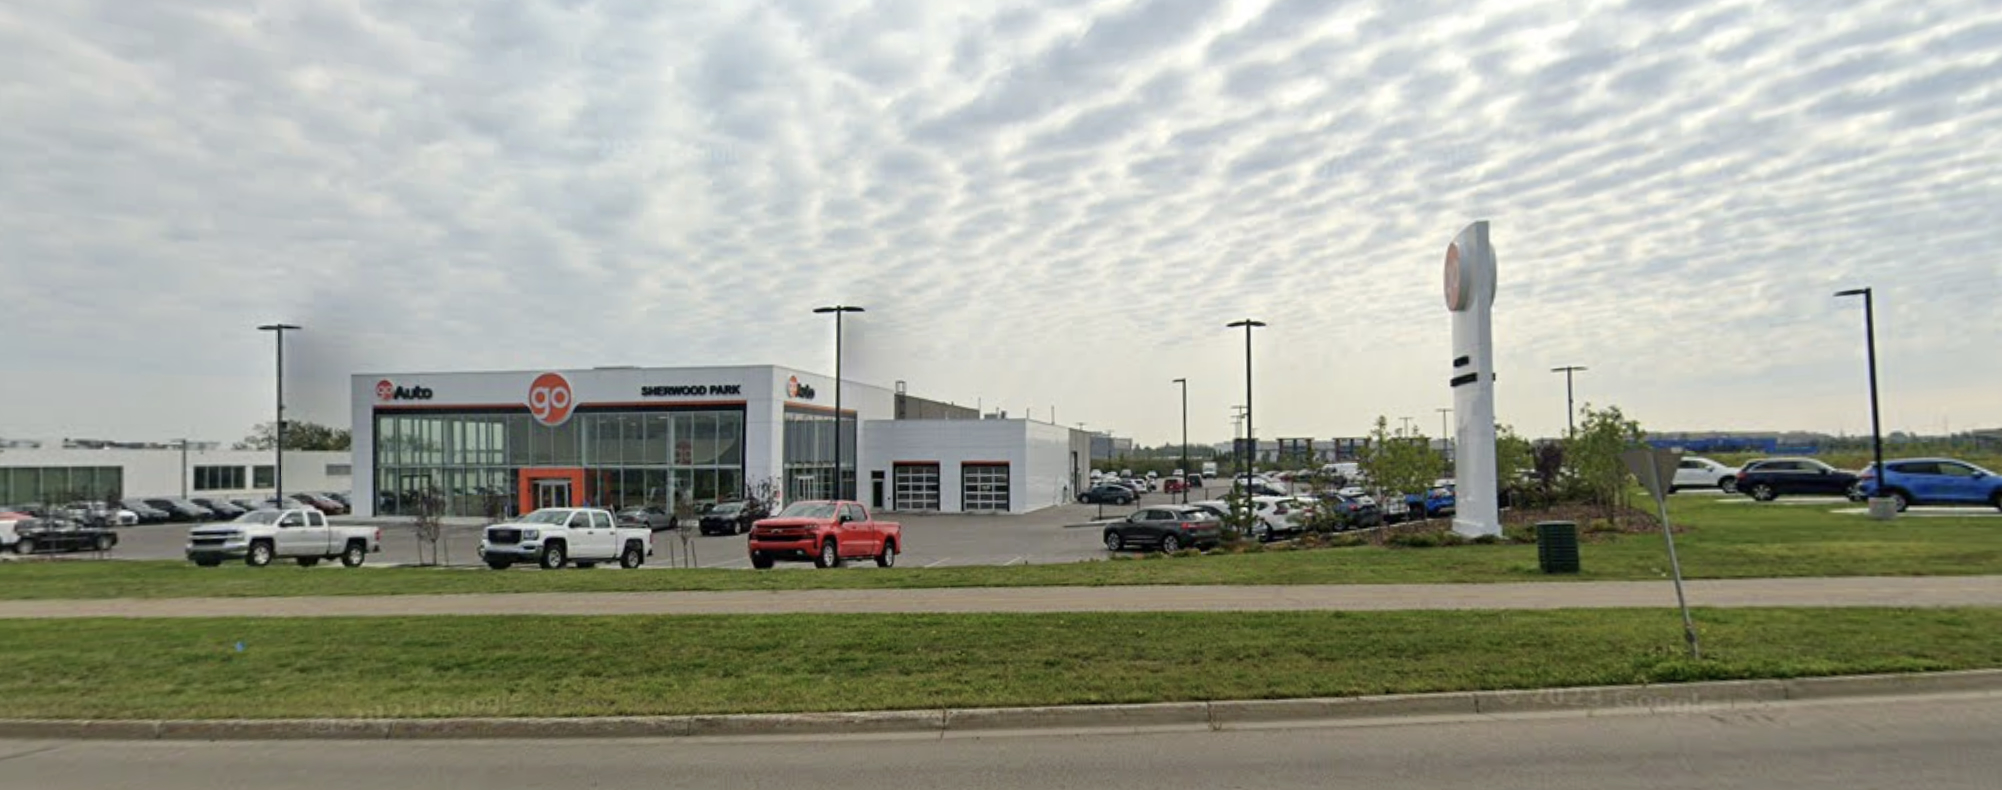
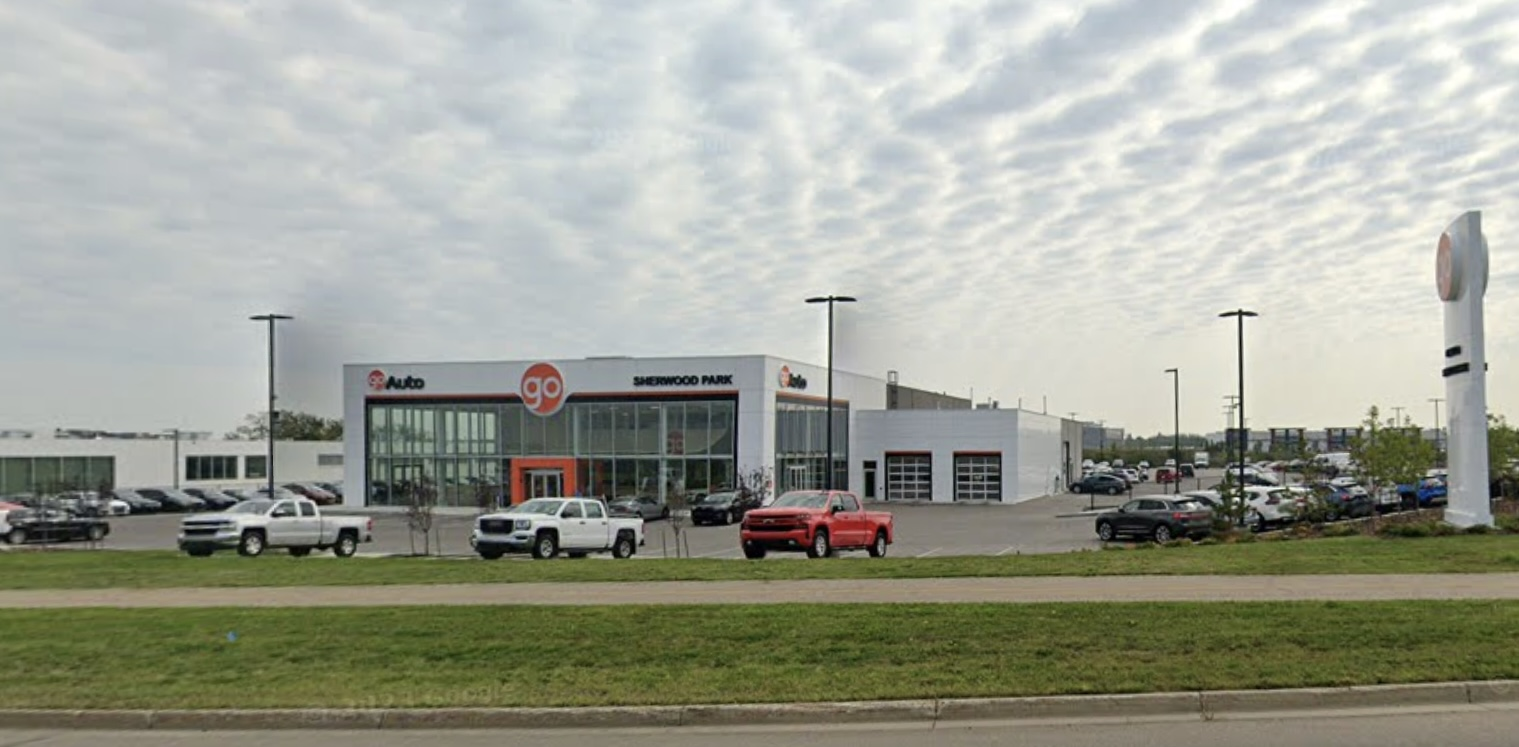
Mobile view - rescale font sizes

diff --git a/styles.css b/styles.css
@@ -206,9 +206,15 @@ header {
 }
 
 .overlay h2 {
-    font-size: 2.5rem; /* Adjust font size as needed */
+    font-size: 2.5rem; /* Default size for desktop */
     margin-top: 60px;
     font-family: 'Merriweather', serif; /* Set font-family */
+}
+
+@media (max-width: 1000px) {
+    .overlay h2 {
+        font-size: 180%; /* Reduce font size to 80% of the default for smaller screens */
+    }
 }
 
 .overlay p {
@@ -616,9 +622,6 @@ button[type="submit"]:hover {
     font-size: 1.2em; /* Match font size with residential services */
 }
 
-
-
-
 .snow-removal-services h3 {
     margin-bottom: 10px; /* Add space below services header */
 }
@@ -635,7 +638,6 @@ button[type="submit"]:hover {
     margin-bottom: 10px;
 }
 
-
 .about-header {
     font-family: 'Merriweather', serif;
     font-size: 2em;
@@ -644,6 +646,7 @@ button[type="submit"]:hover {
 }
 
 .about-description p {
+    margin-bottom: 10px; /* Reduce space below the paragraph */
     line-height: 2; /* Double spacing */
     text-align: center;
 }
@@ -675,24 +678,23 @@ button[type="submit"]:hover {
 }
 
 #outro {
-    height: 300px; /* Adjust the height of the outro background */
+    height: 250px; /* Reduce the height of the outro background */
+    margin-top: 50px; /* Reduce space above the outro section */
     background-image: url('lawn2.jpg'); /* Background image */
     background-size: cover; /* Ensure the background covers the entire container */
-    background-position: center bottom; /* Center the background image vertically and align it to the top */
+    background-position: center bottom; /* Center the background image vertically and align it to the bottom */
     position: relative; /* Ensure proper positioning */
-    margin-top: 150px; /* Adjust the top margin to add space */
-
 }
 
 #outro-content {
-    position: absolute;
-    top: 10%;
-    left: 50%;
-    transform: translate(-50%, -50%);
     text-align: center;
     color: white; /* Text color */
+    padding-top: 10px; /* Add padding to move the content up */
 }
 
+.outro-text {
+    margin-top: -100px; /* Use negative margin to move the text up */
+}
 
 .logo2-container {
     text-align: center;
@@ -702,14 +704,13 @@ button[type="submit"]:hover {
 .logo2 {
     width: 100%; /* Ensure it scales dynamically */
     height: auto; /* Maintain aspect ratio */
-    margin-top: 100px; /* Move the logo2 down to fill the blank space */
+    margin-top: 20px; /* Reduce space above the logo2 */
 }
 
 .logo2 img {
     width: 80%; /* Ensure the image respects the container's width */
     height: auto; /* Maintain aspect ratio */
 }
-
 
 .hamburger-menu {
     display: none;
@@ -765,5 +766,35 @@ button[type="submit"]:hover {
 
     .phone-info {
         margin-right: 40px; /* Adjust the margin-right for mobile view */
+    }
+}
+
+@media (max-width: 1000px) {
+    body {
+        font-size: 80%; /* Reduce the base font size for all text */
+    }
+
+    header, footer, #intro, #outro, .section {
+        font-size: inherit; /* Ensure all sections inherit the reduced font size */
+    }
+
+    h1 {
+        font-size: 1.2rem; /* Adjust heading size */
+    }
+
+    h2 {
+        font-size: 1rem; /* Adjust heading size */
+    }
+
+    h3 {
+        font-size: 1rem; /* Adjust heading size */
+    }
+
+    p, li, a {
+        font-size: 1rem; /* Adjust paragraph, list item, and link size */
+    }
+
+    .estimate-button, .phone-info, .copyright {
+        font-size: 0.9rem; /* Adjust button, phone info, and footer text size */
     }
 }

diff --git a/index.html b/index.html
@@ -67,14 +67,6 @@
         </div>
     </section>
 
-    <section id="licensed-insured" class="section">
-        <div class="container">
-            <div class="licensed-insured-content">
-                <img src="licensed-insured.jpg" alt="Licensed and Insured" class="licensed-insured-image">
-            </div>
-        </div>
-    </section>
-
     <section id="residential" class="section">
         <div class="container">
             <div class="residential-content">
@@ -199,7 +191,7 @@
                         <!-- <img src="gv2.jpeg" alt="Commercial Landscaping Project 5"> -->
                         <img src="pvsldeer.jpeg" alt="Commercial Landscaping Project 3">
                         <img src="thrive.jpg" alt="Commercial Landscaping Project 6">
-                        <img src="goauto.jpg" alt="Commercial Landscaping Project 7" style="width: 207%; height: auto;">
+                        <img src="goauto.jpg" alt="Commercial Landscaping Project 7">
                     </div>
                 </div>
             </div>
